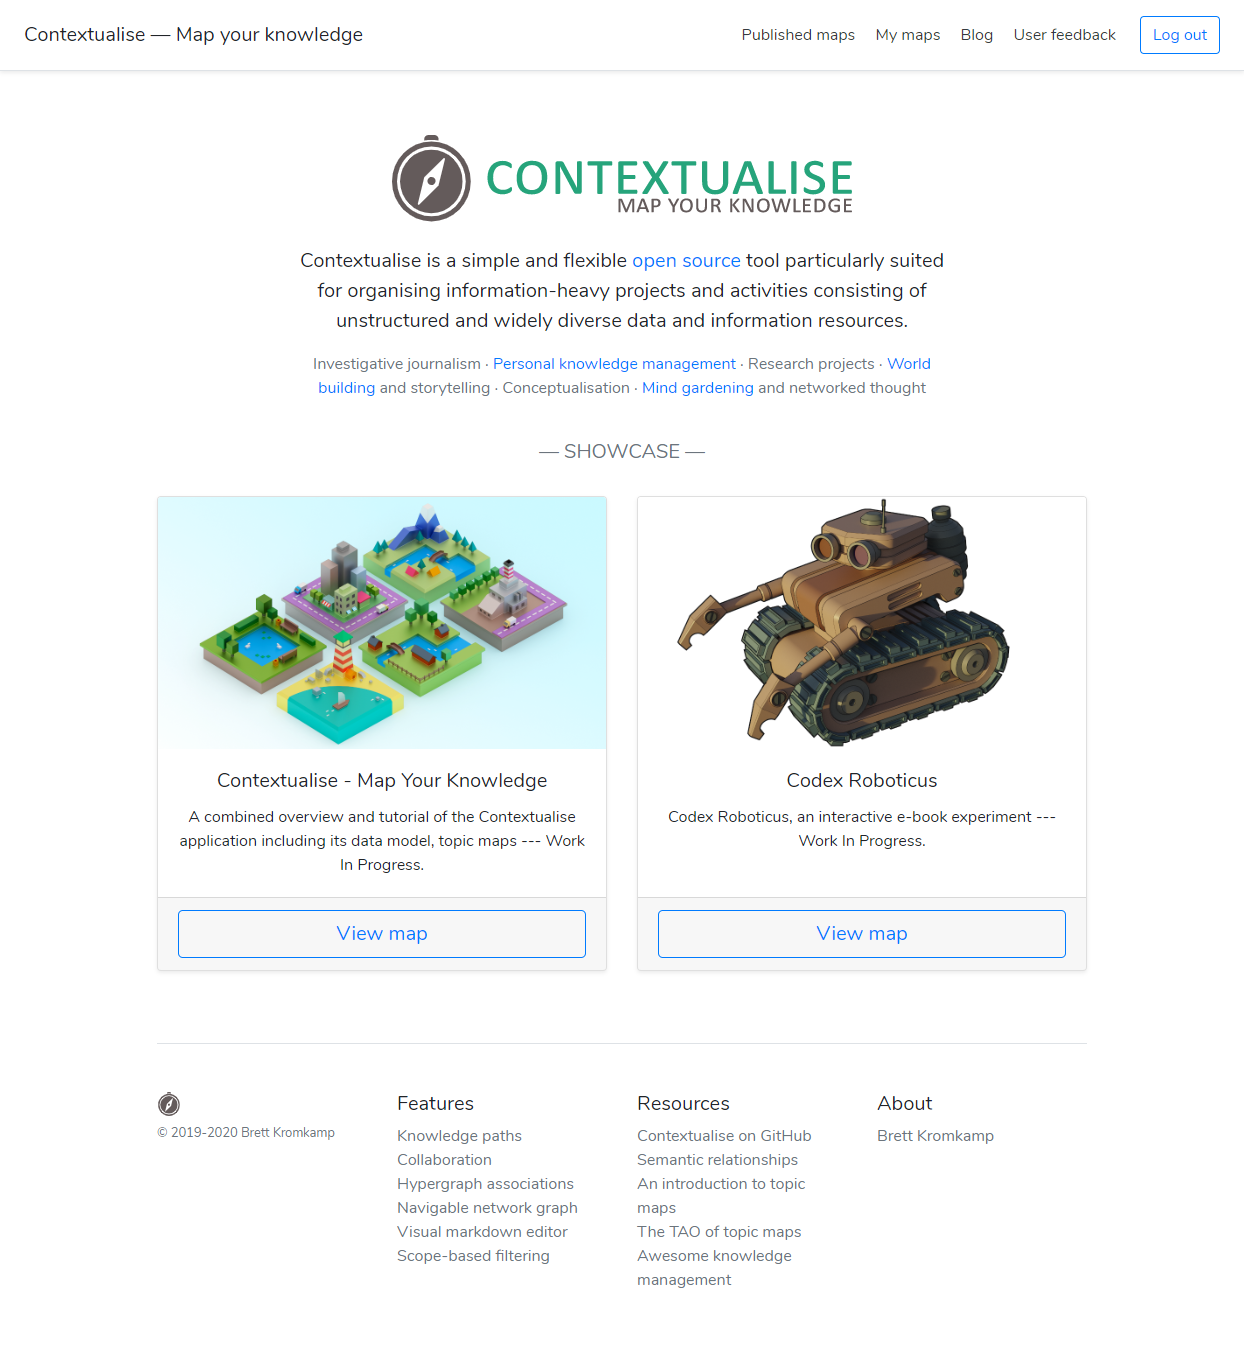
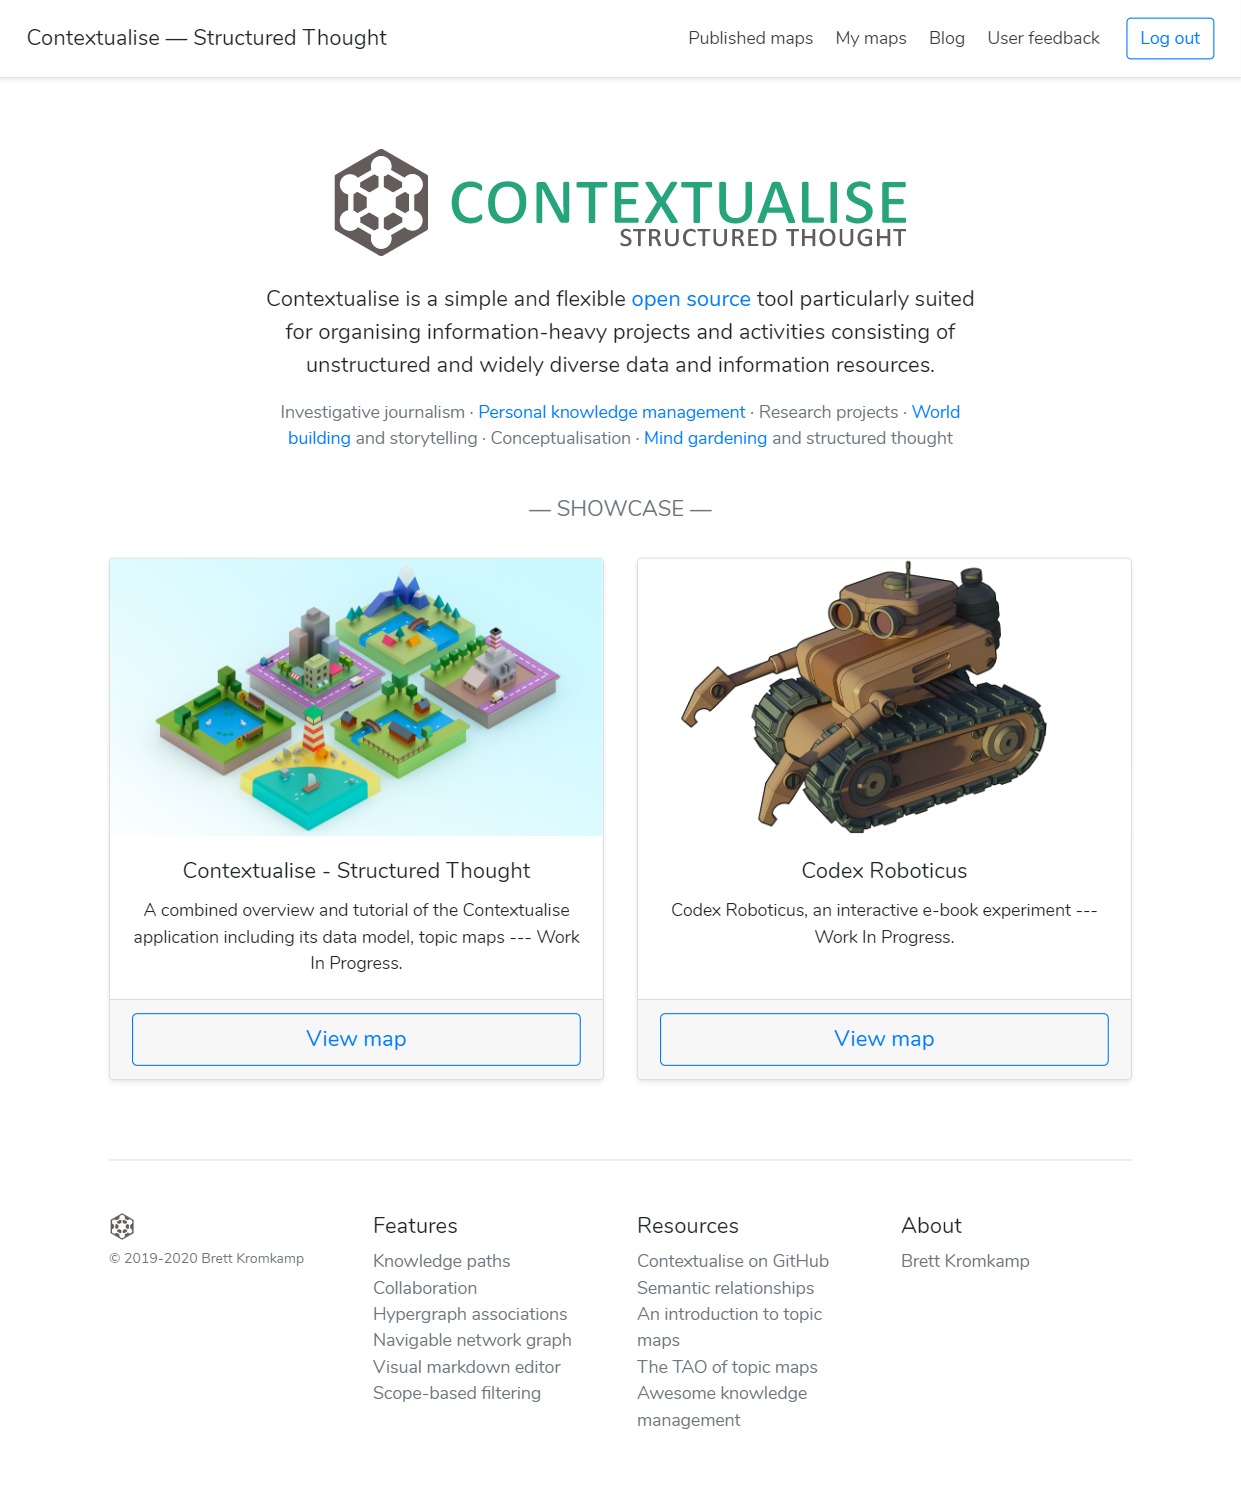
Update landing page screenshot in README.rst

diff --git a/contextualise/templates/index.html b/contextualise/templates/index.html
@@ -16,7 +16,7 @@
         <meta content="Personal Knowledge Management System" name="description">
         <meta content="Brett Kromkamp" name="author">
         <meta content="Contextualise v1.0.0" name="generator">
-        <title>Structured thought | Contextualise</title>
+        <title>Structured Thought | Contextualise</title>
         <link rel="canonical" href="https://contextualise.dev">
         <link rel="shortcut icon" href="{{ url_for('static', filename='favicon.ico') }}">
         <link rel="apple-touch-icon" sizes="180x180" href="{{ url_for('static', filename='apple-touch-icon.png') }}">
